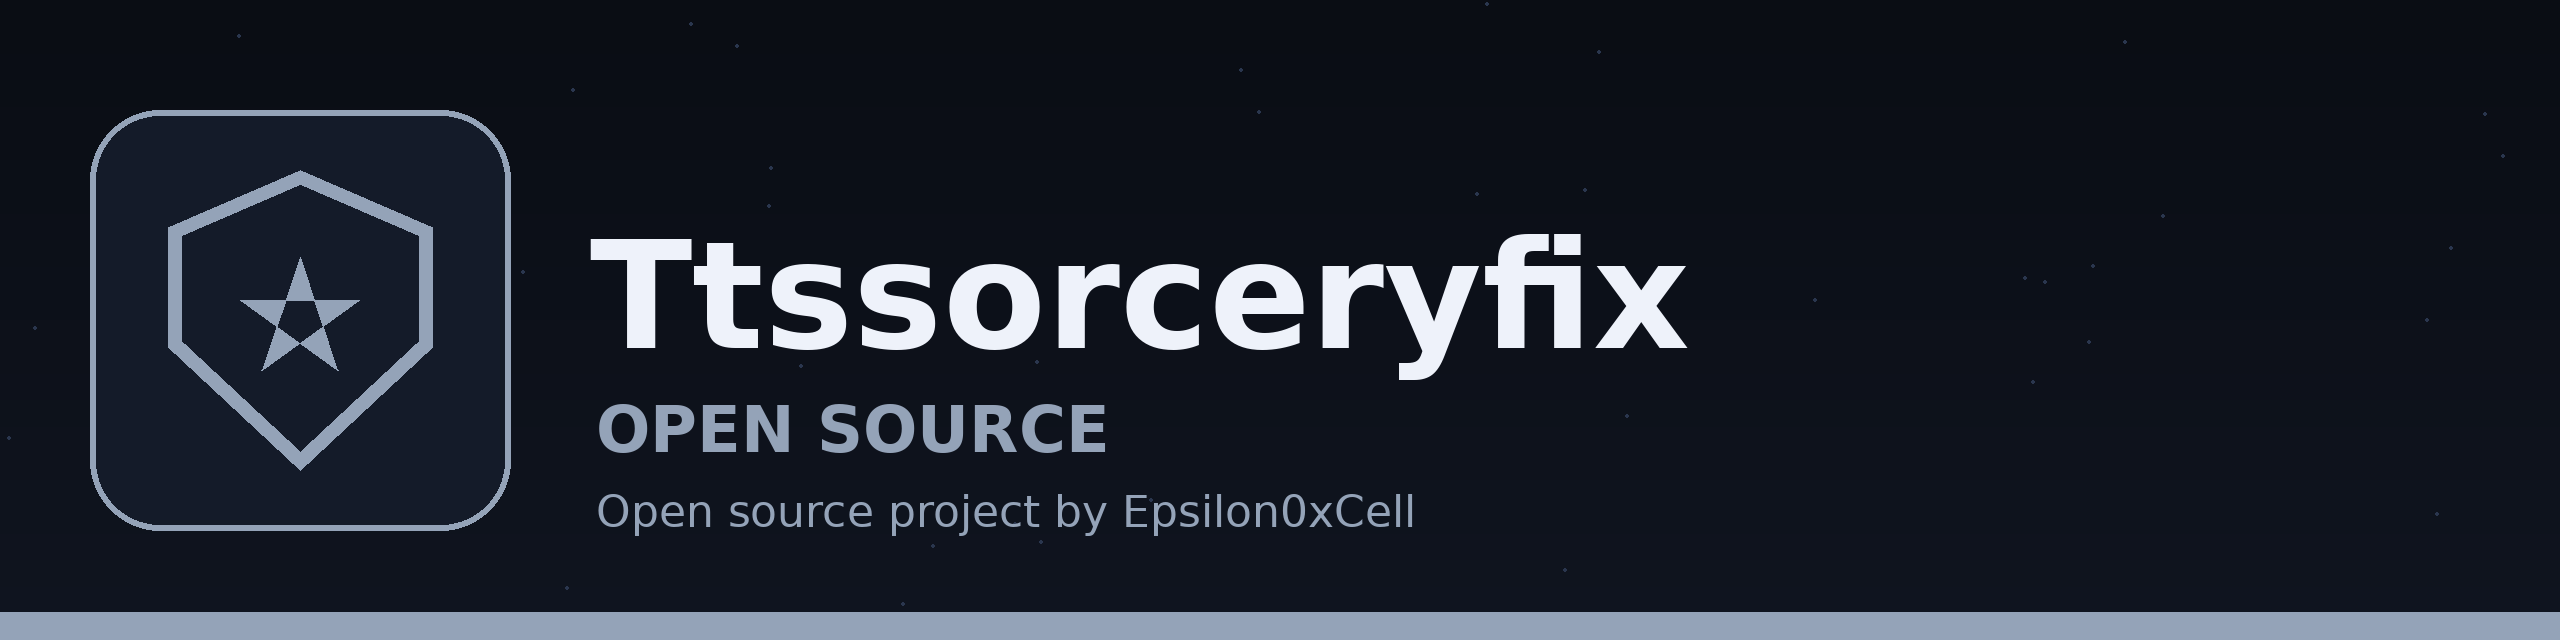
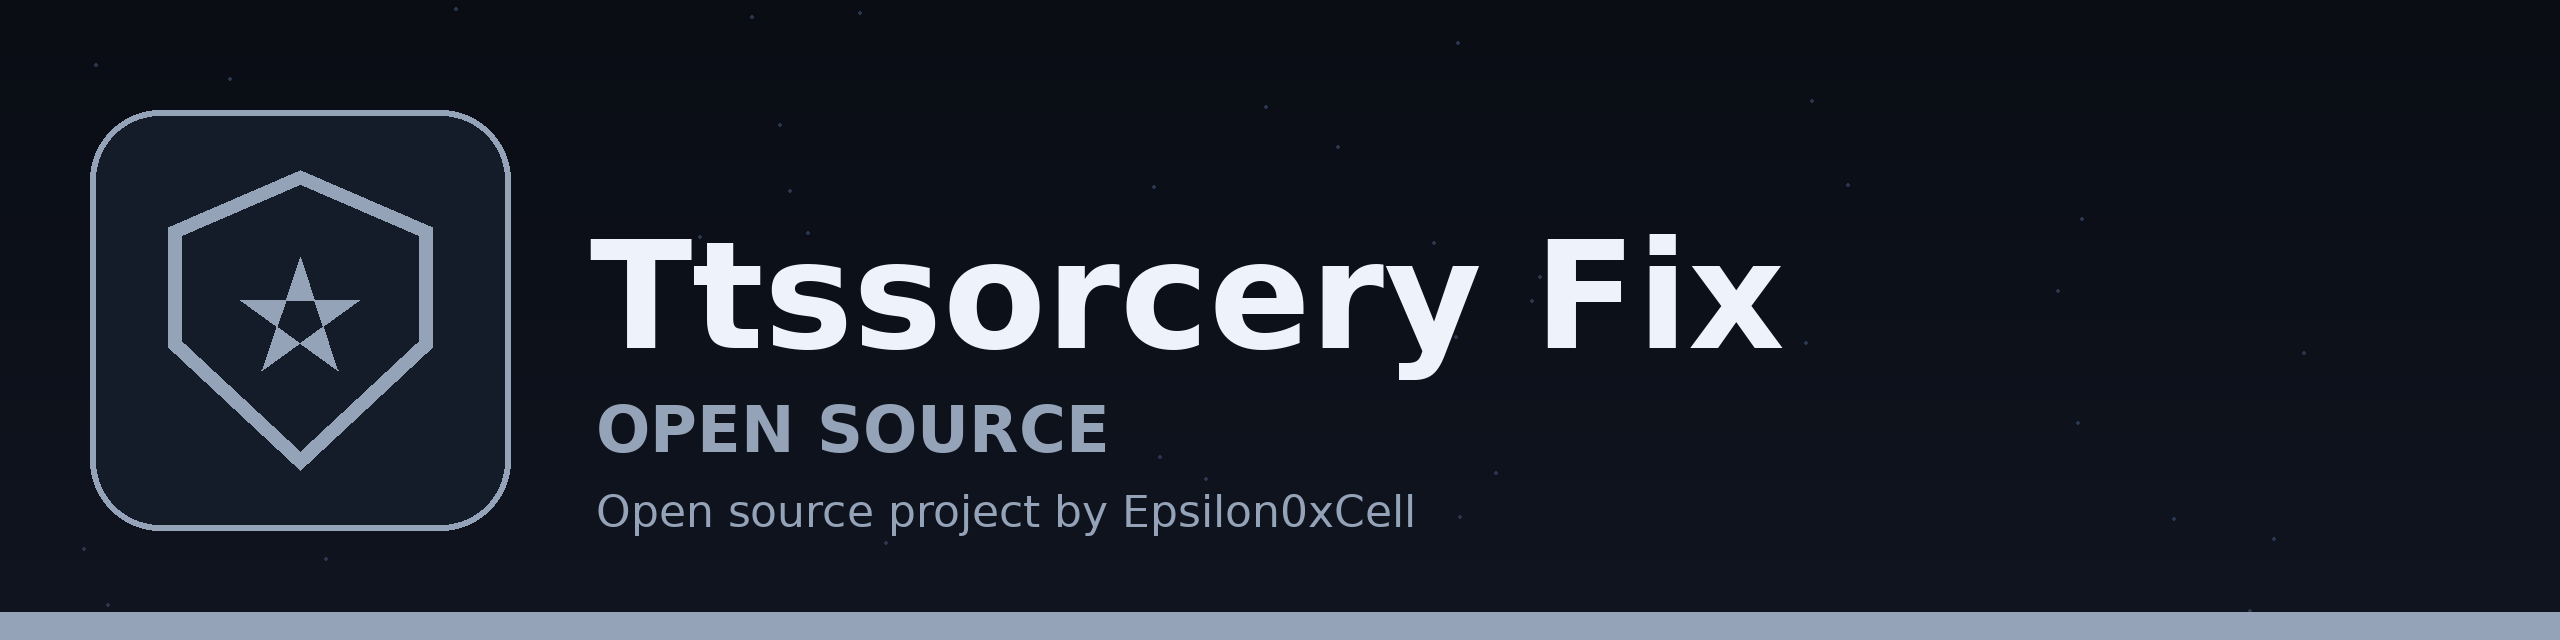
Update name to TTSSorcery-Fix: README title and branding

Changed region(s): [[0.5625, 0.3438, 0.7188, 0.5625]]

diff --git a/README.md b/README.md
@@ -66,7 +66,7 @@ This is included in every dialogue zonos tts generates
 This extension has lots of bugs and almost 80% depends on you having a smart model. The regex it uses to detect characters can break if the model isnt smart enough to put it in the right placing. This has only been tested with models like Claude 3.7, Claude 3.5, Claude Opus, Gemini Pro, Claude Haiku so keep that in mind. It also only works with chat completion for now.
 ## Repository notes (verified 2026-10-30)
 
-- This repo is the ttssorceryfix variant of TTSSorcery for SillyTavern. Files: index.js, style.css, manifest.json, model_instructions.md.
+- This repo is the TTSSorcery-Fix variant of TTSSorcery for SillyTavern. Files: index.js, style.css, manifest.json, model_instructions.md.
 - model_instructions.md contains the standalone copy of the TTS marker instructions template used by the extension.
 - manifest.json declares js index.js and css style.css, and both files are present. Earlier revisions declared style.css in the manifest but did not include the file, so the stylesheet would have failed to load.
 - index.js passes node --check. It requires SillyTavern host modules (extensions.js, script.js, power-user.js, openai.js, lib.js), so it cannot run standalone outside SillyTavern.
